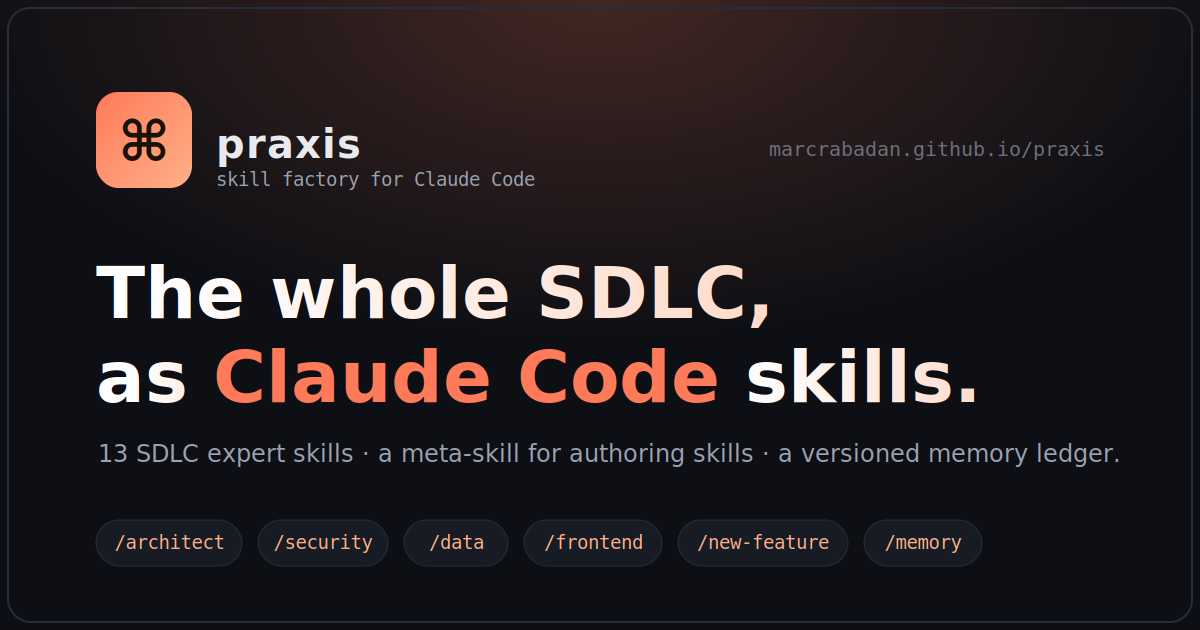
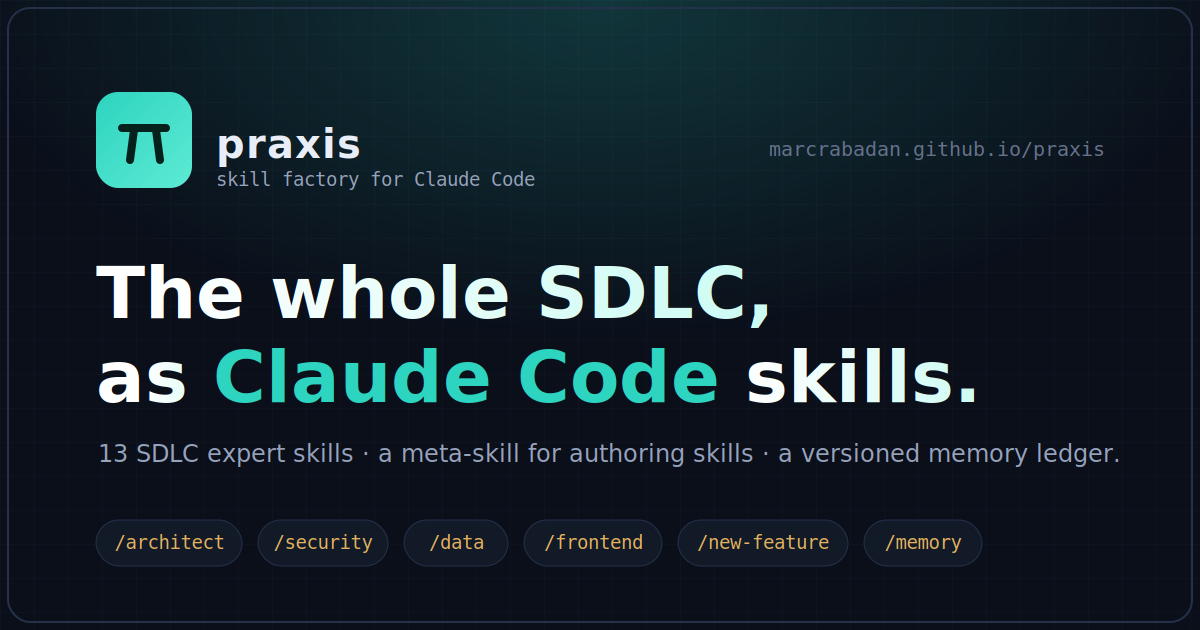
Redesign GitHub Pages with a blueprint/drafting identity
Reskin the landing page with a palette and visual language fitted to
praxis (engineering doctrine, ADRs, lifecycle, blueprints) instead of
the generic dark-slate + coral SaaS look:

- New palette: deep ink-navy "drafting board", a precise teal primary
  and a warm brass secondary for craft/factory accents.
- Subtle blueprint grid behind the page, hero and CTA band.
- Drafting cues: corner tick on cards, title-block rule on panels,
  technical eyebrow/badge markers.
- Geometric π brand mark (vector, font-independent) replacing ⌘;
  regenerated favicon and og-image to match.
- Updated theme-color metas to the new ink-navy.

Structure, copy, classes and JS behaviour are unchanged, so the theme
toggle, scrollspy, tabs and copy buttons keep working. Light theme
reworked as "blueprint on drafting paper" with AA-contrast tokens.

Claude-Session: https://claude.ai/code/session_015jBJRP7rrDcuGJMbcmKJfL

diff --git a/docs/styles.css b/docs/styles.css
@@ -1,36 +1,44 @@
 /* ===================================================================
    praxis — landing page
-   Vanilla CSS · sin build · GitHub Pages
+   Identity: "blueprint / drafting table" — ink navy, technical grid,
+   teal primary + warm brass accent. Vanilla CSS · no build · GH Pages
    =================================================================== */
 
 :root {
   /* ---- Themeable tokens (default = dark) ---- */
-  /* Palette — dark slate + warm Claude-coral accent */
-  --bg:          #0d0f14;
-  --bg-alt:      #12151c;
-  --surface:     #171b24;
-  --surface-2:   #1e232e;
-  --border:      #272d3a;
-  --text:        #e8eaf0;
-  --text-muted:  #9aa3b2;
-  --text-dim:    #6b7280;
-  --accent:      #ff7a59;   /* coral — brand fill (buttons, gradients, marks) */
-  --accent-2:    #ffb088;
-  --accent-ink:  #ff7a59;   /* coral — accent as text/links (darkens in light mode) */
-  --accent-soft: rgba(255, 122, 89, 0.12);
+  /* Palette — deep ink navy "drafting board" + teal primary + brass spark */
+  --bg:          #0a0f1a;
+  --bg-alt:      #0d131f;
+  --surface:     #121a28;
+  --surface-2:   #1a2335;
+  --border:      #25304a;
+  --grid-line:   rgba(125, 211, 252, 0.045);  /* blueprint hairlines */
+  --text:        #e8edf7;
+  --text-muted:  #97a3bd;
+  --text-dim:    #67738d;
+
+  --accent:      #2dd4bf;   /* teal — brand fill (buttons, gradients, marks) */
+  --accent-2:    #5eead4;   /* lighter teal — gradient end */
+  --accent-ink:  #2dd4bf;   /* teal as text/links (darkens in light mode) */
+  --accent-soft: rgba(45, 212, 191, 0.12);
+  --on-accent:   #04211c;   /* ink that sits on a teal fill */
+
+  --brass:       #e6b25e;   /* warm secondary — craft / "factory" spark */
+  --brass-soft:  rgba(230, 178, 94, 0.13);
+
   --green:       #4ade80;
   --yellow:      #fbbf24;
   --red:         #f87171;
-  --header-bg:   rgba(13, 15, 20, 0.78);
-  --shadow:      0 18px 50px -12px rgba(0, 0, 0, 0.55);
+  --header-bg:   rgba(10, 15, 26, 0.78);
+  --shadow:      0 18px 50px -12px rgba(0, 0, 0, 0.6);
 
   /* ---- Fixed tokens (theme-independent) ---- */
   /* Terminal / code panels stay dark in both themes by design */
-  --term-bg:     #171b24;
-  --term-bar:    #1e232e;
-  --term-border: #272d3a;
-  --term-text:   #e8eaf0;
-  --term-dim:    #6b7280;
+  --term-bg:     #0e1626;
+  --term-bar:    #162032;
+  --term-border: #25304a;
+  --term-text:   #e8edf7;
+  --term-dim:    #67738d;
 
   --radius:      14px;
   --radius-sm:   9px;
@@ -39,20 +47,22 @@
   --mono:        'JetBrains Mono', ui-monospace, 'SF Mono', Menlo, monospace;
 }
 
-/* ---- Light theme overrides ---- */
+/* ---- Light theme overrides — "blueprint on drafting paper" ---- */
 :root[data-theme="light"] {
   --bg:          #ffffff;
-  --bg-alt:      #f5f6f9;
+  --bg-alt:      #f3f8f7;
   --surface:     #ffffff;
-  --surface-2:   #eff1f5;
-  --border:      #dfe3ea;
-  --text:        #1a1d23;
-  --text-muted:  #545b68;
-  --text-dim:    #5f6675;   /* ~5:1 on white — AA for the small print */
-  --accent-ink:  #c2410c;   /* darker coral for AA contrast on light surfaces */
-  --accent-soft: rgba(255, 122, 89, 0.14);
+  --surface-2:   #e9f1ef;
+  --border:      #d7e3e0;
+  --grid-line:   rgba(13, 148, 136, 0.05);
+  --text:        #0f1722;
+  --text-muted:  #4c5a6b;
+  --text-dim:    #5c6a7a;   /* ~5:1 on white — AA for the small print */
+  --accent-ink:  #0f766e;   /* deeper teal for AA contrast on light surfaces */
+  --accent-soft: rgba(13, 148, 136, 0.12);
+  --brass-soft:  rgba(180, 120, 30, 0.13);
   --header-bg:   rgba(255, 255, 255, 0.82);
-  --shadow:      0 16px 40px -18px rgba(15, 23, 42, 0.22);
+  --shadow:      0 16px 40px -18px rgba(8, 30, 28, 0.22);
 }
 
 * { box-sizing: border-box; margin: 0; padding: 0; }
@@ -68,6 +78,18 @@ body {
   overflow-x: hidden;
 }
 
+/* Faint blueprint grid washes over the whole page, behind everything. */
+body::before {
+  content: "";
+  position: fixed; inset: 0; z-index: -1; pointer-events: none;
+  background-image:
+    linear-gradient(var(--grid-line) 1px, transparent 1px),
+    linear-gradient(90deg, var(--grid-line) 1px, transparent 1px);
+  background-size: 34px 34px;
+  mask-image: radial-gradient(ellipse 120% 90% at 50% 0%, #000 35%, transparent 80%);
+  -webkit-mask-image: radial-gradient(ellipse 120% 90% at 50% 0%, #000 35%, transparent 80%);
+}
+
 .container { width: 100%; max-width: var(--maxw); margin-inline: auto; padding-inline: 24px; }
 
 a { color: inherit; text-decoration: none; }
@@ -76,7 +98,7 @@ a { color: inherit; text-decoration: none; }
 
 .skip-link {
   position: absolute; left: -999px; top: 0; z-index: 100;
-  background: var(--accent); color: #1a1108; padding: 10px 16px; border-radius: 0 0 8px 0; font-weight: 600;
+  background: var(--accent); color: var(--on-accent); padding: 10px 16px; border-radius: 0 0 8px 0; font-weight: 600;
 }
 .skip-link:focus { left: 0; }
 
@@ -92,12 +114,12 @@ a { color: inherit; text-decoration: none; }
 .btn {
   display: inline-flex; align-items: center; gap: 8px;
   padding: 12px 22px; border-radius: 999px; font-weight: 600; font-size: 0.95rem;
-  border: 1px solid transparent; cursor: pointer; transition: transform .15s ease, background .15s ease, border-color .15s ease;
+  border: 1px solid transparent; cursor: pointer; transition: transform .15s ease, background .15s ease, border-color .15s ease, box-shadow .15s ease;
   white-space: nowrap;
 }
 .btn:hover { transform: translateY(-2px); }
 .btn:active { transform: translateY(0) scale(0.98); }
-.btn-primary { background: var(--accent); color: #1a1108; }
+.btn-primary { background: var(--accent); color: var(--on-accent); box-shadow: 0 8px 22px -10px var(--accent); }
 .btn-primary:hover { background: var(--accent-2); }
 .btn-ghost { background: transparent; border-color: var(--border); color: var(--text); }
 .btn-ghost:hover { border-color: var(--accent); color: var(--accent-ink); }
@@ -113,7 +135,8 @@ a { color: inherit; text-decoration: none; }
 .brand { display: inline-flex; align-items: center; gap: 9px; margin-right: auto; font-weight: 800; font-size: 1.2rem; letter-spacing: -0.02em; }
 .brand-mark {
   display: grid; place-items: center; width: 30px; height: 30px; border-radius: 8px;
-  background: linear-gradient(135deg, var(--accent), var(--accent-2)); color: #1a1108; font-size: 1rem; font-weight: 700;
+  background: linear-gradient(135deg, var(--accent), var(--accent-2)); color: var(--on-accent); font-size: 1rem; font-weight: 800;
+  box-shadow: inset 0 0 0 1px rgba(255,255,255,0.12);
 }
 .nav-links { display: flex; align-items: center; gap: 22px; }
 .nav-links a { position: relative; display: inline-flex; align-items: center; min-height: 40px; color: var(--text-muted); font-size: 0.94rem; font-weight: 500; transition: color .15s; }
@@ -152,20 +175,33 @@ a { color: inherit; text-decoration: none; }
 .mobile-menu a:last-child { border-bottom: none; }
 
 /* ===================== HERO ===================== */
-.hero { position: relative; padding: 88px 0 72px; overflow: hidden; }
-.hero-glow {
-  position: absolute; top: -160px; left: 50%; transform: translateX(-50%);
-  width: 900px; height: 560px; pointer-events: none;
-  background: radial-gradient(ellipse at center, rgba(255,122,89,0.20), transparent 65%);
-  filter: blur(20px);
+.hero { position: relative; padding: 92px 0 76px; overflow: hidden; }
+/* Denser blueprint grid local to the hero for a "drafting board" feel. */
+.hero::before {
+  content: ""; position: absolute; inset: 0; z-index: 0; pointer-events: none;
+  background-image:
+    linear-gradient(var(--grid-line) 1px, transparent 1px),
+    linear-gradient(90deg, var(--grid-line) 1px, transparent 1px);
+  background-size: 34px 34px;
+  mask-image: radial-gradient(ellipse 80% 70% at 30% 35%, #000 10%, transparent 75%);
+  -webkit-mask-image: radial-gradient(ellipse 80% 70% at 30% 35%, #000 10%, transparent 75%);
 }
-.hero-grid { position: relative; display: grid; grid-template-columns: 1.05fr 0.95fr; gap: 56px; align-items: center; }
+.hero-glow {
+  position: absolute; top: -180px; left: 56%; transform: translateX(-50%);
+  width: 920px; height: 580px; pointer-events: none; z-index: 0;
+  background:
+    radial-gradient(ellipse at center, rgba(45,212,191,0.18), transparent 62%),
+    radial-gradient(ellipse 40% 60% at 70% 40%, rgba(230,178,94,0.10), transparent 70%);
+  filter: blur(18px);
+}
+.hero-grid { position: relative; z-index: 1; display: grid; grid-template-columns: 1.05fr 0.95fr; gap: 56px; align-items: center; }
 
 .eyebrow {
-  display: inline-block; font-family: var(--mono); font-size: 0.78rem; letter-spacing: 0.04em;
+  display: inline-flex; align-items: center; gap: 8px; font-family: var(--mono); font-size: 0.78rem; letter-spacing: 0.04em;
   color: var(--accent-ink); background: var(--accent-soft); padding: 6px 13px; border-radius: 999px; margin-bottom: 22px;
-  border: 1px solid rgba(255,122,89,0.2);
+  border: 1px solid rgba(45,212,191,0.22);
 }
+.eyebrow::before { content: "◇"; font-size: 0.7rem; color: var(--brass); }
 .hero h1 { font-size: clamp(2.1rem, 4.6vw, 3.5rem); line-height: 1.08; letter-spacing: -0.03em; font-weight: 800; margin-bottom: 22px; }
 .lede { font-size: 1.12rem; color: var(--text-muted); max-width: 540px; margin-bottom: 30px; }
 .lede strong { color: var(--text); }
@@ -175,11 +211,18 @@ a { color: inherit; text-decoration: none; }
   font-size: 0.82rem; color: var(--text-muted); font-family: var(--mono);
   padding: 6px 13px; border: 1px solid var(--border); border-radius: 999px; background: var(--surface);
 }
+.hero-badges li::before { content: "› "; color: var(--accent-ink); }
 
 /* Terminal — pinned dark in both themes by design */
 .hero-terminal, .code-panel {
+  position: relative;
   background: var(--term-bg); border: 1px solid var(--term-border); border-radius: var(--radius);
   box-shadow: var(--shadow); overflow: hidden;
+}
+/* Thin teal rule along the top — a drafting "title block" cue. */
+.hero-terminal::after, .code-panel::after {
+  content: ""; position: absolute; top: 0; left: 0; right: 0; height: 2px;
+  background: linear-gradient(90deg, var(--accent), transparent 60%);
 }
 .term-bar { display: flex; align-items: center; gap: 8px; padding: 12px 16px; background: var(--term-bar); border-bottom: 1px solid var(--term-border); }
 .dot { width: 12px; height: 12px; border-radius: 50%; }
@@ -189,7 +232,7 @@ a { color: inherit; text-decoration: none; }
 .term-body code { color: var(--term-text); background: none; padding: 0; border-radius: 0; font-size: inherit; }
 .c-comment { color: var(--term-dim); }
 .c-prompt  { color: var(--accent); font-weight: 600; }
-.c-cmd     { color: var(--accent-2); font-weight: 600; }
+.c-cmd     { color: var(--brass); font-weight: 600; }
 .c-ok      { color: var(--green); }
 .c-warn    { color: var(--yellow); }
 .c-err     { color: var(--red); }
@@ -198,17 +241,23 @@ a { color: inherit; text-decoration: none; }
 .c-str     { color: var(--green); }
 
 /* ===================== SECTIONS ===================== */
-.section { padding: 80px 0; }
+.section { position: relative; padding: 80px 0; }
 .section-alt { background: var(--bg-alt); border-block: 1px solid var(--border); }
 .section-title { font-size: clamp(1.7rem, 3.4vw, 2.4rem); line-height: 1.15; letter-spacing: -0.025em; font-weight: 800; text-align: center; }
 .section-sub { text-align: center; color: var(--text-muted); max-width: 640px; margin: 16px auto 48px; font-size: 1.05rem; }
 
 code { font-family: var(--mono); font-size: 0.86em; background: var(--surface-2); padding: 2px 7px; border-radius: 6px; color: var(--accent-ink); }
 
-/* Value cards */
+/* Value cards — framed like drafting cards with a corner tick. */
 .cards-3 { display: grid; grid-template-columns: repeat(3, 1fr); gap: 24px; }
-.card { background: var(--surface); border: 1px solid var(--border); border-radius: var(--radius); padding: 30px 26px; transition: transform .18s ease, border-color .18s ease; }
-.card:hover { transform: translateY(-4px); border-color: rgba(255,122,89,0.4); }
+.card { position: relative; background: var(--surface); border: 1px solid var(--border); border-radius: var(--radius); padding: 30px 26px; transition: transform .18s ease, border-color .18s ease, box-shadow .18s ease; }
+.card::before {
+  content: ""; position: absolute; top: 12px; right: 12px; width: 14px; height: 14px;
+  border-top: 1.5px solid var(--border); border-right: 1.5px solid var(--border); border-top-right-radius: 4px;
+  transition: border-color .18s ease;
+}
+.card:hover { transform: translateY(-4px); border-color: rgba(45,212,191,0.5); box-shadow: var(--shadow); }
+.card:hover::before { border-color: var(--accent); }
 .card-icon { font-size: 1.9rem; margin-bottom: 16px; }
 .card h3 { font-size: 1.2rem; margin-bottom: 10px; letter-spacing: -0.01em; }
 .card p { color: var(--text-muted); font-size: 0.97rem; }
@@ -219,13 +268,13 @@ code { font-family: var(--mono); font-size: 0.86em; background: var(--surface-2)
   background: var(--surface); border: 1px solid var(--border); border-radius: var(--radius-sm);
   padding: 22px 20px; transition: transform .16s ease, border-color .16s ease, background .16s ease;
 }
-.expert:hover { transform: translateY(-4px); border-color: rgba(255,122,89,0.45); background: var(--surface-2); }
+.expert:hover { transform: translateY(-4px); border-color: rgba(45,212,191,0.5); background: var(--surface-2); }
 .expert .cmd { display: inline-block; font-family: var(--mono); font-size: 0.78rem; color: var(--accent-ink); background: var(--accent-soft); padding: 4px 9px; border-radius: 6px; margin-bottom: 12px; }
 .expert h3 { font-size: 1.04rem; margin-bottom: 8px; letter-spacing: -0.01em; }
 .expert p { color: var(--text-muted); font-size: 0.88rem; line-height: 1.55; }
 
 .experts-meta { display: grid; grid-template-columns: 1fr 1fr; gap: 18px; margin-top: 30px; }
-.meta-pill { background: var(--surface); border: 1px solid var(--border); border-left: 3px solid var(--accent); border-radius: var(--radius-sm); padding: 18px 22px; color: var(--text-muted); font-size: 0.96rem; }
+.meta-pill { background: var(--surface); border: 1px solid var(--border); border-left: 3px solid var(--brass); border-radius: var(--radius-sm); padding: 18px 22px; color: var(--text-muted); font-size: 0.96rem; }
 .meta-pill strong { font-family: var(--mono); color: var(--accent-ink); font-size: 0.9rem; }
 
 /* How it works */
@@ -234,7 +283,7 @@ code { font-family: var(--mono); font-size: 0.86em; background: var(--surface-2)
 .step { display: flex; gap: 18px; align-items: flex-start; }
 .step-num {
   flex-shrink: 0; display: grid; place-items: center; width: 38px; height: 38px; border-radius: 10px;
-  background: var(--accent-soft); color: var(--accent-ink); font-weight: 700; font-family: var(--mono); border: 1px solid rgba(255,122,89,0.25);
+  background: var(--accent-soft); color: var(--accent-ink); font-weight: 700; font-family: var(--mono); border: 1px solid rgba(45,212,191,0.28);
 }
 .step h3 { font-size: 1.12rem; margin-bottom: 6px; }
 .step p { color: var(--text-muted); font-size: 0.96rem; }
@@ -258,18 +307,19 @@ code { font-family: var(--mono); font-size: 0.86em; background: var(--surface-2)
 .example-card {
   display: flex; flex-direction: column; background: var(--surface);
   border: 1px solid var(--border); border-radius: var(--radius); overflow: hidden;
-  transition: transform .18s ease, border-color .18s ease;
+  transition: transform .18s ease, border-color .18s ease, box-shadow .18s ease;
 }
-.example-card:hover { transform: translateY(-4px); border-color: rgba(255,122,89,0.4); }
+.example-card:hover { transform: translateY(-4px); border-color: rgba(45,212,191,0.5); box-shadow: var(--shadow); }
 .example-head { padding: 24px 24px 18px; }
 .example-tag {
   display: inline-block; font-family: var(--mono); font-size: 0.72rem; letter-spacing: 0.03em;
-  color: var(--accent-ink); background: var(--accent-soft); padding: 4px 10px; border-radius: 999px;
-  border: 1px solid rgba(255,122,89,0.2); margin-bottom: 12px;
+  color: var(--brass); background: var(--brass-soft); padding: 4px 10px; border-radius: 999px;
+  border: 1px solid rgba(230,178,94,0.24); margin-bottom: 12px;
 }
 .example-head h3 { font-size: 1.18rem; letter-spacing: -0.01em; margin-bottom: 8px; }
 .example-head p { color: var(--text-muted); font-size: 0.93rem; line-height: 1.55; }
 .example-card .code-panel { border: none; border-top: 1px solid var(--term-border); border-radius: 0; box-shadow: none; margin-top: auto; }
+.example-card .code-panel::after { display: none; }
 .example-card .term-body { font-size: 0.79rem; line-height: 1.75; }
 
 .examples-foot { text-align: center; margin-top: 40px; }
@@ -282,7 +332,7 @@ code { font-family: var(--mono); font-size: 0.86em; background: var(--surface-2)
   background: var(--surface); border: 1px solid var(--border); border-radius: 999px; padding: 9px 20px; cursor: pointer; transition: .15s;
 }
 .tab:hover { color: var(--text); border-color: var(--accent); }
-.tab.active { background: var(--accent); color: #1a1108; border-color: var(--accent); }
+.tab.active { background: var(--accent); color: var(--on-accent); border-color: var(--accent); }
 .tab:active { transform: scale(0.97); }
 .tab-panel { display: none; max-width: 760px; margin-inline: auto; }
 .tab-panel.active { display: block; animation: fade .25s ease; }
@@ -300,8 +350,17 @@ code { font-family: var(--mono); font-size: 0.86em; background: var(--surface-2)
 .copy-btn.copied { color: var(--green); border-color: var(--green); }
 
 /* ===================== CTA BAND ===================== */
-.cta-band { padding: 84px 0; background: linear-gradient(135deg, rgba(255,122,89,0.10), rgba(255,176,136,0.04)); border-block: 1px solid var(--border); }
-.cta-inner { text-align: center; }
+.cta-band { position: relative; padding: 84px 0; background: linear-gradient(135deg, rgba(45,212,191,0.10), rgba(230,178,94,0.05)); border-block: 1px solid var(--border); overflow: hidden; }
+.cta-band::before {
+  content: ""; position: absolute; inset: 0; pointer-events: none;
+  background-image:
+    linear-gradient(var(--grid-line) 1px, transparent 1px),
+    linear-gradient(90deg, var(--grid-line) 1px, transparent 1px);
+  background-size: 34px 34px;
+  mask-image: radial-gradient(ellipse 70% 120% at 50% 50%, #000 20%, transparent 75%);
+  -webkit-mask-image: radial-gradient(ellipse 70% 120% at 50% 50%, #000 20%, transparent 75%);
+}
+.cta-inner { position: relative; text-align: center; }
 .cta-inner h2 { font-size: clamp(1.6rem, 3.4vw, 2.3rem); letter-spacing: -0.025em; font-weight: 800; max-width: 720px; margin: 0 auto 14px; }
 .cta-inner p { color: var(--text-muted); margin-bottom: 28px; }
 .cta-inner .hero-cta { justify-content: center; }
@@ -320,7 +379,7 @@ code { font-family: var(--mono); font-size: 0.86em; background: var(--surface-2)
 .to-top {
   position: fixed; right: 22px; bottom: 22px; z-index: 60;
   display: grid; place-items: center; width: 46px; height: 46px;
-  background: var(--accent); color: #1a1108; border: none; border-radius: 50%;
+  background: var(--accent); color: var(--on-accent); border: none; border-radius: 50%;
   box-shadow: var(--shadow); cursor: pointer;
   opacity: 0; transform: translateY(12px); pointer-events: none;
   transition: opacity .2s ease, transform .2s ease, background .15s ease;

diff --git a/docs/index.html b/docs/index.html
@@ -15,7 +15,7 @@
   </script>
 
   <meta name="color-scheme" content="dark light" />
-  <meta name="theme-color" id="theme-color-meta" content="#0d0f14" />
+  <meta name="theme-color" id="theme-color-meta" content="#0a0f1a" />
 
   <!-- Theme bootstrap: set data-theme before paint to avoid a flash of the wrong theme -->
   <script>
@@ -26,7 +26,7 @@
         var theme = stored || (prefersLight ? 'light' : 'dark');
         document.documentElement.setAttribute('data-theme', theme);
         var meta = document.getElementById('theme-color-meta');
-        if (meta) { meta.setAttribute('content', theme === 'light' ? '#ffffff' : '#0d0f14'); }
+        if (meta) { meta.setAttribute('content', theme === 'light' ? '#ffffff' : '#0a0f1a'); }
       } catch (e) { /* keep the dark default from the markup */ }
     })();
   </script>
@@ -96,7 +96,7 @@
   <header class="site-header" id="top">
     <div class="container nav">
       <a class="brand" href="#top" aria-label="praxis — home">
-        <span class="brand-mark" aria-hidden="true">⌘</span>
+        <span class="brand-mark" aria-hidden="true">π</span>
         <span class="brand-name">praxis</span>
       </a>
       <nav class="nav-links" aria-label="Primary">
@@ -899,7 +899,7 @@ cp integrations/codex/prompts/*.md ~/.codex/prompts/</code></pre>
   <footer class="site-footer">
     <div class="container footer-grid">
       <div>
-        <a class="brand" href="#top"><span class="brand-mark" aria-hidden="true">⌘</span><span class="brand-name">praxis</span></a>
+        <a class="brand" href="#top"><span class="brand-mark" aria-hidden="true">π</span><span class="brand-name">praxis</span></a>
         <p class="footer-tag">A shared library of Claude Code skills for the software delivery lifecycle.</p>
       </div>
       <nav aria-label="Project links">

diff --git a/docs/script.js b/docs/script.js
@@ -16,7 +16,7 @@
 
   function applyTheme(theme) {
     root.setAttribute('data-theme', theme);
-    if (themeMeta) { themeMeta.setAttribute('content', theme === 'light' ? '#ffffff' : '#0d0f14'); }
+    if (themeMeta) { themeMeta.setAttribute('content', theme === 'light' ? '#ffffff' : '#0a0f1a'); }
     syncThemeButton(theme);
   }
 